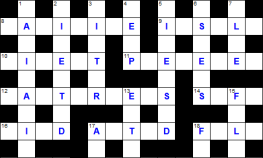
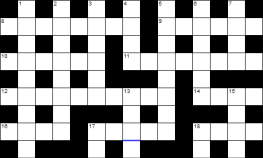
Complete grid 14 & switch to 15

diff --git a/grids/grid014.html b/grids/grid014.html
@@ -34,31 +34,30 @@ exolve-begin
   exolve-title: Community AOTW Crossword 14
   exolve-setter: contributors to <a href="https://www.reddit.com/r/crosswords/">/r/crosswords</a>
   exolve-prelude:
-    The shaded entry is last week’s <a href="https://www.reddit.com/r/crosswords/comments/q5cqxm/aotw_etn/hg4w5pm/" target="_blank">winner by asintheweather (week 29)</a>.<br><br>Definitions are <span class="xlv-definition">underlined</span> in the clue text.
+    'Reveal this', 'Reveal all!', and 'Check this' (for correct entries) will also show clue parsing notes. Definitions get <span class="xlv-definition">underlined</span> within the clues.
   exolve-width: 15
   exolve-height: 15
   exolve-grid: 
-    . M!. B!. L!. H!. L!. A!. F!. 
-    S!A!N!I!T!I!S!E!. I!N!S!O!L!E!
-    . R!. S!. T!. L!. C!. S!. E!. 
-    D!I!V!E!S!T!. P!0 E!0 E!0 E!0 
-    . N!. C!. E!. . . N!. T!. . . 
-    E!A!S!T!E!R!N!E!R!S!. S!O!F!A!
-    . T!. E!. . . A!. E!. . . O!. 
-    T!I!E!D!. A!C!T!E!D!. F!E!L!T!
-    . N!. . . S!. I!. . . E!. L!. 
-    E!G!G!S!. C!O!N!V!E!N!T!I!O!N!
-    . . . H!. R!. . . M!. T!. W!. 
-    F!A!M!I!L!I!A!R!. A!V!E!R!S!E!
-    . T!. L!. B!. I!. I!. R!. U!. 
-    G!O!A!L!I!E!. C!A!L!L!E!R!I!D!
-    . M!. S!. S!. E!. S!. D!. T!. 
-  exolve-colour: #ccfcff 13D
+    .M.B.L.H.L.A.F.
+    SANITISE.INSOLE
+    .R.S.T.L.C.S.E.
+    DIVEST.PRECEDES
+    .N.C.E...N.T...
+    EASTERNERS.SOFA
+    .T.E...A.E...O.
+    TIED.ACTED.FELT
+    .N...S.I...E.L.
+    EGGS.CONVENTION
+    ...H.R...M.T.W.
+    FAMILIAR.AVERSE
+    .T.L.B.I.I.R.U.
+    GOALIE.CALLERID
+    .M.S.S.E.S.D.T.
   exolve-across:
     8 ~{Clean up}~ bits of Parmesan – it is everywhere! (8) <a href="https://www.reddit.com/r/crosswords/comments/npa93c/aotw_aiie/h05n043/" target="_blank">by siyoung91 (wk 10)</a><br>HA {bits of} in <i>Parme</i><b>SAN IT IS E</b><i>verywhere</i>
     9 Erupting lesion — ~{it’s under the tongue}~! (6) <a href="https://www.reddit.com/r/crosswords/comments/orcgpk/aotw_isl/h6ng5jm/" target="_blank">by quince23 (wk 18)</a><br>LESION* {erupting}
     10 ~{Strip}~ teases primarily seen behind seedy bars (6) <a href="https://www.reddit.com/r/crosswords/comments/mexkrz/aotw_iet/gskfedq/" target="_blank">by davebees (wk 1)</a><br><b>T</b><i>eases</i> {primarily} after DIVES {seedy bars}
-    11 <strong>P?E?E?E? (8)</strong># <a href="" target="_blank">by  (wk )</a><br>
+    11 ~{Heads}~ or tails? To keep or make sacrifices? (8) <a href="https://www.reddit.com/r/crosswords/comments/qahygk/atow_peee/hh3x2ki/" target="_blank">by professor_glum (wk 30)</a><br><i>kee</i><b>P</b> <i>o</i><b>R</b> <i>mak</i><b>E</b> {tails to} + CEDES {sacrifices}
     12 Serene star shimmers for ~{the first witnesses of dawn}~ (10) <a href="https://www.reddit.com/r/crosswords/comments/nyrl7y/aotw_atres/h1lx4eu/" target="_blank">by foureyedclyde (wk 12)</a><br>(SERENE STAR)* {shimmers}
     14 Silly oafs and ~{layabouts might leave a lasting impression here}~ (4) <a href="https://www.reddit.com/r/crosswords/comments/p10v0b/aotw_sf/h8aaebo/" target="_blank">by foureyedclyde (wk 20)</a><br>OAFS* {Silly}
     16 ~{Drew}~ Barrymore’s last day after rejecting horror movie (4) <a href="https://www.reddit.com/r/crosswords/comments/n8cxcx/aotw_id/gxje60v/" target="_blank">by davebees (wk 7)</a><br>(<i>barrymor</i><b>E</b> {last} + <b>D</b><i>ay</i>) after &lt;IT {horror movie} rev. {rejecting}

diff --git a/aotw.html b/aotw.html
@@ -12,10 +12,18 @@
       Competitions</a></h1>
   <div class="album">
     
+    <div class="album_item"><a href="grids/grid015.html"   target="_blank"><img class="album__artwork" src="images/aotw/thumb-015.png" alt="puzzle-thumbnail-015" /></a>
+      <a href="grids/grid015.html"   target="_blank">
+        <div class="album__details">
+          <p>Ongoing Puzzle 15</p>
+        </div>
+      </a>
+    </div>
+    
     <div class="album_item"><a href="grids/grid014.html"   target="_blank"><img class="album__artwork" src="images/aotw/thumb-014.png" alt="puzzle-thumbnail-014" /></a>
       <a href="grids/grid014.html"   target="_blank">
         <div class="album__details">
-          <p>Ongoing Puzzle 14</p>
+          <p>Community Puzzle 14</p>
         </div>
       </a>
     </div>

diff --git a/grids/grid015.html b/grids/grid015.html
@@ -35,7 +35,7 @@ exolve-begin
   exolve-width: 15
   exolve-height: 15
   exolve-preamble:
-    <b>NOTE:</b> <i>Available clue links go to OneLook for a list of possible entries.</i>
+    The last round was won by <a href="https://www.reddit.com/user/professor_glum" target="_blank">professor_glum</a> for <a href="https://www.reddit.com/r/crosswords/comments/qahygk/atow_peee/hh3x2ki/" target="_blank">PRECEDES (wk 30)</a> at 20 across in the <a href="https://r-crosswords.github.io/aotw/grids/grid014.html" target="_blank">previous grid</a>.<br><br><b>NOTE:</b> <i>Available clue links go to OneLook for a list of possible entries.</i>
   exolve-grid: 
     0 . 0 . 0 . 0 . 0 . 0 . 0 . 0 
     N!0 R!0 A!0 I!0 E!. A!0 O!0 T!
